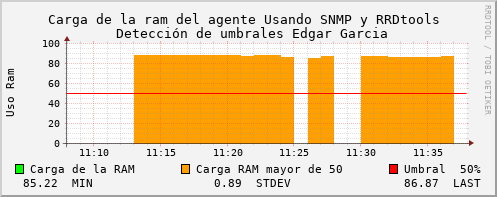
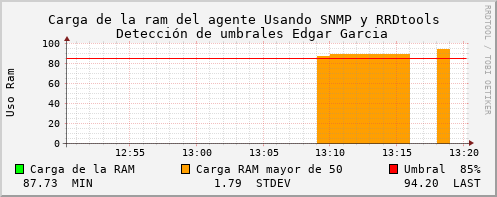
update, ya se envia todo

diff --git a/p3/Parte1- Línea Base/trendGraphDetection.py b/p3/Parte1- Línea Base/trendGraphDetection.py
@@ -46,10 +46,10 @@ def graficar_todo():
                                  "VDEF:cargaMIN=cargaRAM,MINIMUM",
                                  "VDEF:cargaSTDEV=cargaRAM,STDEV",
                                  "VDEF:cargaLAST=cargaRAM,LAST",
-                                 "CDEF:umbral50=cargaRAM,50,LT,0,cargaRAM,IF",
+                                 "CDEF:umbral50=cargaRAM,85,LT,0,cargaRAM,IF",
                                  "AREA:cargaRAM#00FF00:Carga de la RAM",
                                  "AREA:umbral50#FF9F00:Carga RAM mayor de 50",
-                                 "HRULE:50#FF0000:Umbral  50%",
+                                 "HRULE:85#FF0000:Umbral  85%",
                                  "PRINT:cargaLAST:%6.2lf",
                                  "GPRINT:cargaMIN:%6.2lf %SMIN",
                                  "GPRINT:cargaSTDEV:%6.2lf %SSTDEV",
@@ -97,10 +97,12 @@ def graficar_todo():
         generarGrafica(int(timestamp))
         generarGraficaRam(int(timestamp))
         generarGraficaRed(int(timestamp))
-        #if dato> 50:
-         #   generarGrafica(int(timestamp))
-          #  send_alert_attached("Sobrepasa el umbral Edgar Garcia Marciano")
-           # print("sobrepasa el umbral")
+        if dato> 50 or dato2 > 85:
+           generarGrafica(int(timestamp))
+           generarGraficaRam(int(timestamp))
+           generarGraficaRed(int(timestamp))
+           send_alert_attached("Sobrepasa el umbral Edgar Garcia Marciano")
+           print("sobrepasa el umbral")
         time.sleep(20)
 
 #graficar_todo()

diff --git a/p3/Parte1- Línea Base/Notify.py b/p3/Parte1- Línea Base/Notify.py
@@ -9,7 +9,7 @@ imgpath = '/home/edgar/Documents/GitHub/Redes3/p3/IMG/'
 fname = 'trend.rrd'
 
 mailsender = "dummycuenta3@gmail.com"
-mailreceip = "dummycuenta3@gmail.com" #linea de codigo a modiciar para el correo
+mailreceip = "edgargarcia.0129@gmail.com" #linea de codigo a modiciar para el correo
 mailserver = 'smtp.gmail.com: 587'
 password = 'dvduuffmlhspbmjj'
 
@@ -20,10 +20,23 @@ def send_alert_attached(subject):
     msg['Subject'] = subject
     msg['From'] = mailsender
     msg['To'] = mailreceip
+
     fp = open(imgpath+'deteccion.png', 'rb')
     img = MIMEImage(fp.read())
     fp.close()
+
+    fp2 = open(imgpath + 'deteccionRam.png', 'rb')
+    img2 = MIMEImage(fp2.read())
+    fp2.close()
+
+    fp3 = open(imgpath + 'deteccionRed.png', 'rb')
+    img3 = MIMEImage(fp3.read())
+    fp3.close()
+
     msg.attach(img)
+    msg.attach(img2)
+    msg.attach(img3)
+
     s = smtplib.SMTP(mailserver)
 
     s.starttls()
